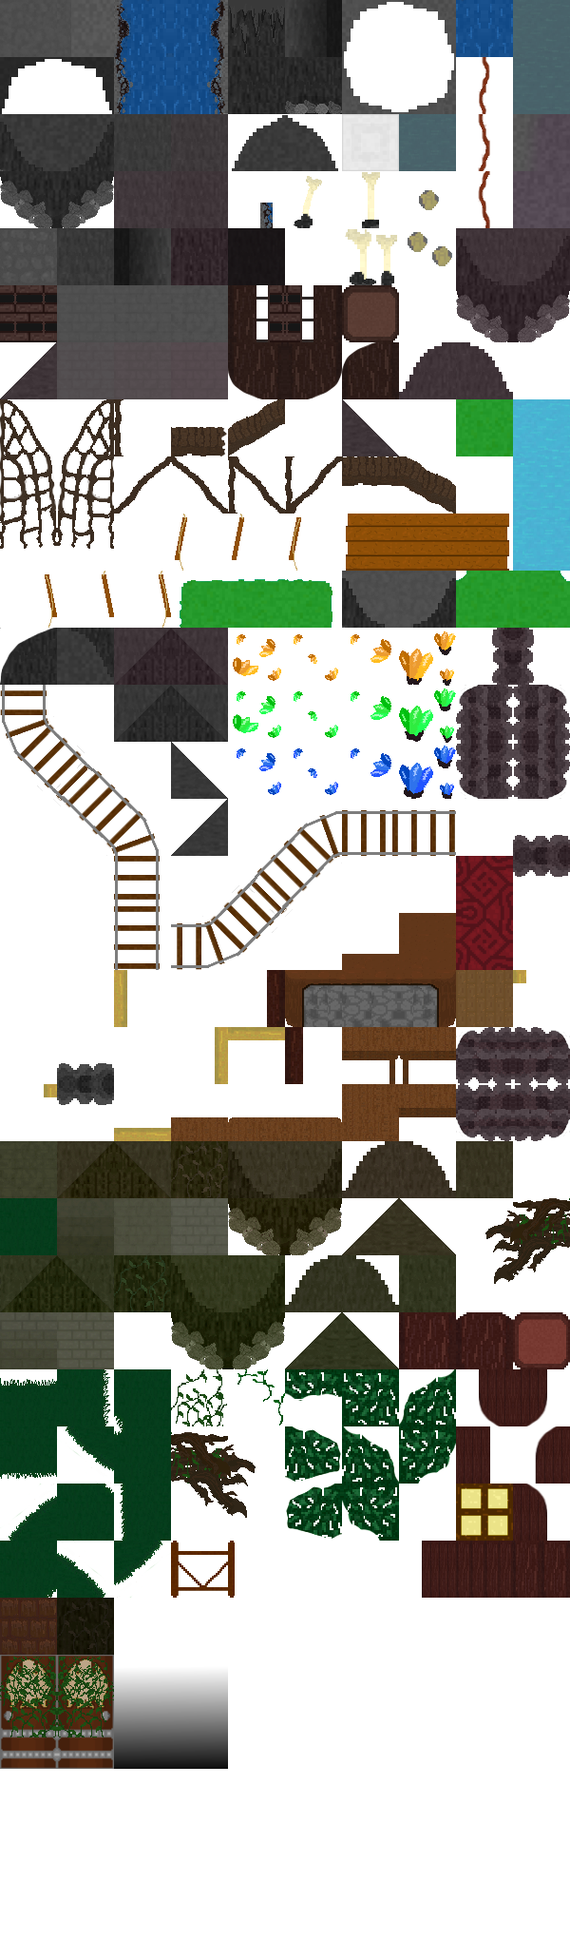
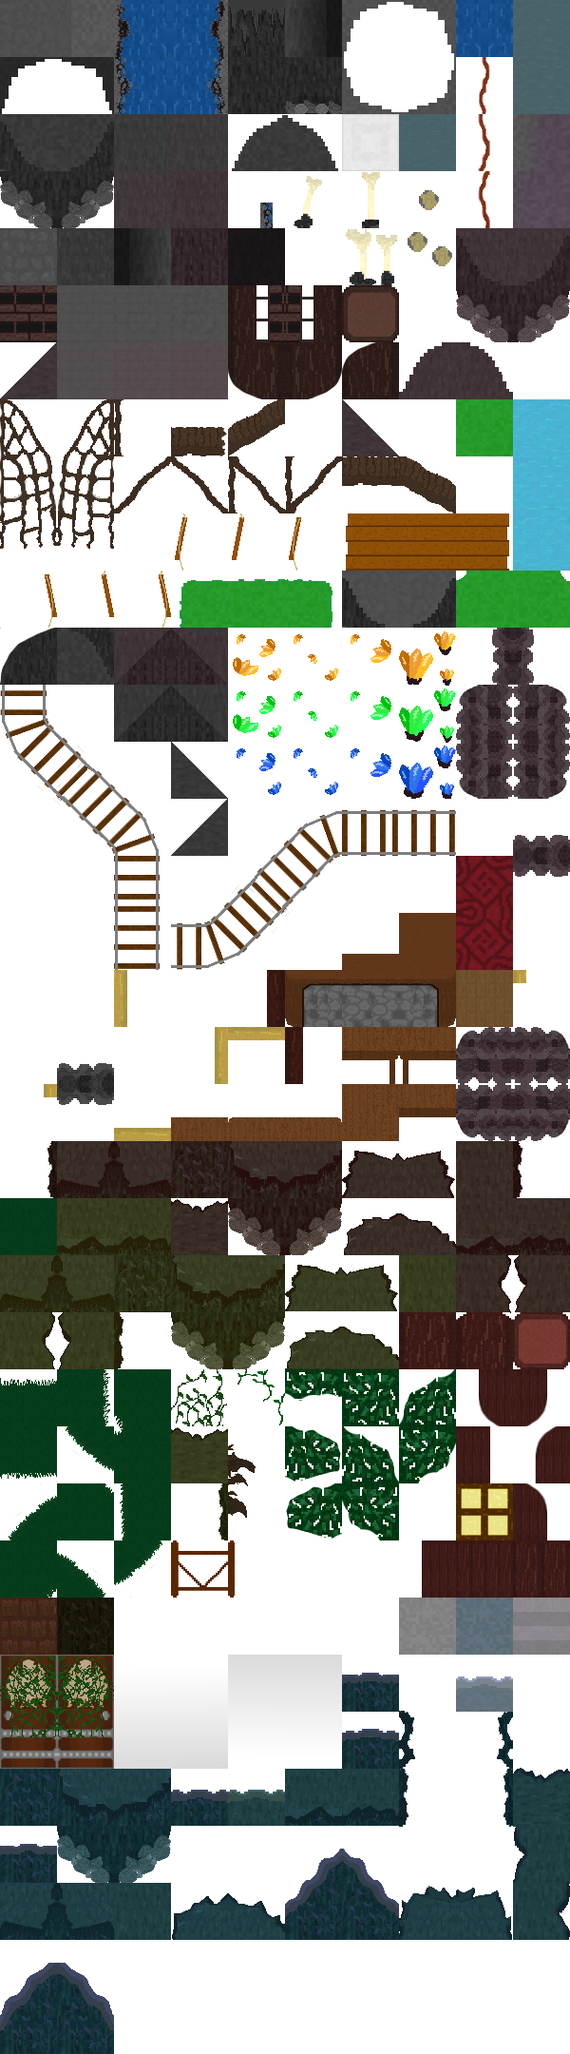
Added frog queen base underwater part!
Added the area, updated caves tilemap and added rocks too.

diff --git a/gamedata/areadata.js b/gamedata/areadata.js
@@ -3669,7 +3669,7 @@ var Areas = {
 				49, 49, 49, 49, 49, 49, 49, 49, 49, 49, 49, 49, 49, 49, 49, 41, 41, 41, 41, 41, 41, 41, 41, 41, 41, 41, 41, 41, 41, 41, 41, 41, 41, 41, 41, 41, 41, 41, 41, 41, 41, 41, 41, 41, 41, 41, 41, 49, 49, 49, 49, 49, 6, 41, 49, 49, 49, 49, 49, 414, 414, 414, 414, 414, 414, 414, 49, 49, 49, 49, 49, 49, 6, 41, 49, 49, 49, 49, 41, 41, 41, 41, 41, 41, 41, 49, 49, 49, 41, 41, 41, 41, 41, 41, 41, 41, 41, 41, 41, 41, 41, 41, 41, 41, 41, 41, 49, 49, 49, 49, 49, 49, 49, 49, 49, 49, 49, 49, 49, 49, 49, 49, 49, 49, 49, 49, 49, 49, 49, 49, 49, 49, 49, 49, 49, 49, 49, 49, 49, 49, 49, 49, 49, 49, 49, 49, 49, 49, 49, 49, 49, 49, 49, 49, 49, 49, 49, 49, 49, 49, 49, 49, 49, 49, 49, 49, 49, 49, 49, 49, 49, 49, 49, 49, 49,
 				49, 49, 49, 49, 49, 49, 49, 49, 49, 49, 49, 49, 49, 49, 49, 49, 41, 41, 41, 41, 41, 41, 41, 41, 41, 41, 41, 41, 41, 41, 41, 41, 41, 41, 41, 41, 41, 41, 41, 41, 41, 41, 41, 41, 41, 41, 41, 49, 49, 49, 49, 49, 6, 41, 49, 49, 49, 49, 49, 414, 414, 414, 414, 414, 414, 414, 49, 49, 49, 49, 49, 49, 6, 41, 49, 49, 49, 49, 41, 41, 41, 41, 41, 41, 41, 41, 41, 41, 41, 41, 41, 41, 41, 41, 41, 41, 41, 41, 41, 41, 41, 41, 41, 41, 41, 41, 49, 49, 49, 49, 49, 49, 49, 49, 49, 49, 49, 49, 49, 49, 49, 49, 49, 49, 49, 49, 49, 49, 49, 49, 49, 49, 49, 49, 49, 49, 49, 49, 49, 49, 49, 49, 49, 49, 49, 49, 49, 49, 49, 49, 49, 49, 49, 49, 49, 49, 49, 49, 49, 49, 49, 49, 49, 49, 49, 49, 49, 49, 49, 49, 49, 49, 49, 49, 49,
 				49, 49, 49, 49, 49, 49, 49, 49, 49, 49, 49, 49, 49, 49, 49, 49, 49, 41, 41, 41, 41, 41, 41, 41, 41, 41, 41, 41, 41, 41, 41, 41, 41, 41, 41, 41, 41, 41, 41, 41, 41, 41, 41, 41, 41, 41, 41, 41, 49, 49, 49, 49, 6, 41, 49, 49, 49, 49, 49, 414, 414, 414, 414, 414, 414, 414, 49, 49, 49, 49, 49, 49, 6, 41, 49, 49, 49, 41, 41, 41, 49, 49, 49, 49, 49, 41, 49, 49, 49, 49, 49, 49, 49, 49, 49, 49, 49, 49, 49, 49, 49, 49, 49, 41, 41, 49, 49, 49, 49, 49, 49, 49, 49, 49, 49, 49, 49, 49, 49, 49, 49, 49, 49, 49, 49, 49, 49, 49, 49, 49, 49, 49, 49, 49, 49, 49, 49, 49, 49, 49, 49, 49, 49, 49, 49, 49, 49, 49, 49, 49, 49, 49, 49, 49, 49, 49, 49, 49, 49, 49, 49, 49, 49, 49, 49, 49, 49, 49, 49, 49, 49, 49, 49, 49, 49],
-	
+
 
 
 
@@ -14381,7 +14381,389 @@ crop: {
 
 	},
 
+	underwaterGrove: {
+		id: 32,
 
+		data: {
+			name: "???",
+			displayOnEnter: true,
+		},
+
+		indoors: true,
+
+		tagGameAllowed: true,
+
+		song_day: "assets/music/Eaglecrest.mp3",
+		song_night: "assets/music/Eaglecrest.mp3",
+
+		checkpoint: false,
+
+		lootArea: "eaglecrest",
+		lootTier: 1,
+
+		mapData: {
+			cols: 58,
+			rows: 66,
+			tsize: 60,
+			tilesPerRow: 10,
+			solidTiles: [1],
+			animateTiles: [
+
+				{
+				// water boundary
+				tiles: [297, 321, 314, 307],
+				animateTime: 180,
+			},
+
+
+			{
+			tiles: [326, 341],
+			animateTime: 360,
+		},
+
+		{
+		tiles: [327, 342],
+		animateTime: 360,
+	},
+
+	{
+	tiles: [336, 351],
+	animateTime: 360,
+	},
+
+	{
+	tiles: [337, 352],
+	animateTime: 360,
+	},
+
+
+
+
+		],
+			layers: [
+				[209,209,209,209,209,209,209,209,209,209,209,209,209,209,209,209,209,206,228,228,223,288,288,223,228,228,228,228,228,228,228,228,228,228,228,228,228,228,228,205,209,209,209,209,209,209,209,209,209,209,209,209,209,209,209,209,209,209,
+209,209,209,209,209,209,209,209,209,209,209,209,209,209,209,209,206,204,228,228,223,288,288,223,223,228,228,228,228,228,228,228,228,228,228,228,228,228,228,204,204,205,209,209,209,209,209,209,209,209,209,209,209,209,209,209,209,209,
+209,209,209,209,209,209,209,209,209,209,209,209,209,209,209,209,204,204,228,228,223,289,289,223,223,223,228,228,228,228,228,228,228,228,228,228,228,228,228,204,204,204,205,209,209,209,209,209,209,209,209,209,209,209,209,209,209,209,
+209,209,209,209,209,209,209,209,209,209,209,209,209,209,209,206,204,204,228,228,223,289,289,289,223,223,223,228,228,228,228,228,223,223,223,223,223,228,228,204,204,204,204,204,205,209,209,209,209,209,209,209,209,209,209,209,209,209,
+209,209,209,209,209,209,209,209,209,209,209,209,209,209,206,204,204,228,228,228,223,289,289,289,289,223,223,223,223,223,223,223,223,223,223,223,223,0,228,228,204,204,204,204,204,205,209,209,209,209,209,209,209,209,209,209,209,209,
+209,209,209,209,209,209,209,209,209,209,209,209,209,206,204,204,228,228,228,228,289,289,289,289,289,289,223,223,223,223,223,223,311,311,311,311,223,223,223,228,228,228,204,204,204,204,205,209,209,209,209,209,209,209,209,209,209,209,
+209,209,209,209,209,209,209,209,209,209,209,209,206,204,204,204,228,228,228,289,223,289,289,289,289,289,289,311,311,311,311,311,289,289,289,289,289,223,223,223,228,228,228,204,204,204,204,204,209,209,209,209,209,209,209,209,209,209,
+209,209,209,209,209,209,209,209,209,209,209,206,204,204,204,228,228,228,223,223,223,289,289,289,289,289,289,289,289,289,289,289,289,289,289,289,289,289,223,223,223,228,228,228,228,204,204,204,209,209,209,209,209,209,209,209,209,209,
+209,209,209,209,209,209,209,209,209,209,206,204,204,204,228,228,228,289,223,223,289,289,289,289,289,289,289,289,289,289,289,289,289,289,289,289,289,289,289,223,223,223,228,228,228,228,204,204,209,209,209,209,209,209,209,209,209,209,
+209,209,209,209,209,209,209,209,209,206,204,204,204,228,228,228,289,223,223,289,289,289,289,289,289,289,289,209,209,209,209,209,209,209,209,289,289,289,289,289,223,223,223,228,228,228,228,209,211,211,211,211,211,211,211,211,211,209,
+209,209,209,209,209,209,209,209,206,204,204,204,228,228,228,289,223,223,289,289,289,289,289,289,204,209,209,209,209,209,209,209,209,209,209,209,209,204,289,289,289,223,223,223,228,228,209,209,209,209,209,209,209,209,209,209,209,209,
+209,209,209,209,209,209,209,209,204,204,204,228,228,228,289,223,223,289,289,289,289,289,289,289,204,209,209,209,209,209,209,209,209,209,209,209,209,209,228,289,289,289,223,223,223,209,209,209,209,209,209,209,209,209,209,209,209,209,
+209,209,209,209,209,209,209,209,204,204,228,228,228,289,223,223,311,289,289,289,289,289,289,289,204,209,209,209,209,209,209,209,209,209,209,209,209,209,204,228,289,289,289,223,223,204,204,204,204,204,204,203,209,209,209,209,209,209,
+209,209,209,209,209,209,209,209,204,228,228,228,225,223,223,311,289,289,289,289,289,289,228,228,209,209,209,209,209,209,209,209,209,209,209,209,209,209,204,228,223,289,289,289,223,204,204,204,204,204,204,204,204,209,209,209,209,209,
+209,209,209,209,209,206,209,209,228,228,228,225,223,223,311,289,289,289,289,289,289,228,228,209,209,209,209,209,209,209,209,209,209,209,209,209,209,209,206,228,223,289,289,289,223,204,204,204,204,204,204,204,204,203,209,209,209,209,
+209,209,209,209,209,209,209,209,209,228,223,223,223,311,289,289,289,289,289,289,228,228,209,209,209,209,209,209,209,209,209,209,209,209,206,204,204,204,204,228,223,289,289,289,223,228,204,204,204,204,204,204,204,204,205,209,209,209,
+209,209,209,209,209,209,204,209,209,209,228,311,311,289,289,289,289,289,289,223,228,209,209,209,209,209,209,209,209,209,209,209,209,204,204,204,204,204,204,333,311,289,289,289,223,224,228,228,228,228,228,228,204,204,204,209,209,209,
+209,209,209,209,209,209,209,209,209,209,311,311,289,289,289,289,289,289,289,223,209,209,209,209,209,209,209,209,209,209,209,209,209,204,204,204,204,311,311,333,311,289,289,289,223,223,224,228,223,228,228,228,204,204,204,209,209,209,
+209,209,209,209,209,209,209,209,209,209,311,289,289,289,289,289,289,289,289,209,209,209,209,209,209,209,209,209,209,209,209,209,209,204,311,311,311,311,333,333,311,289,289,289,311,223,223,223,223,224,228,228,204,228,204,209,209,209,
+209,209,209,209,209,209,209,209,209,209,311,289,289,289,289,289,289,289,289,333,209,209,209,209,209,209,209,209,209,209,209,209,209,228,333,333,333,333,333,333,311,289,289,289,311,311,311,311,311,223,228,228,204,228,209,209,209,209,
+209,209,209,209,209,209,209,209,209,333,311,289,289,289,289,289,289,289,289,204,333,209,209,209,209,209,209,209,209,209,209,228,228,204,333,333,333,333,333,333,331,289,289,289,289,311,311,311,311,311,333,333,228,228,209,209,209,209,
+209,209,209,209,209,209,209,209,333,204,311,289,289,289,289,289,289,289,289,204,204,333,209,209,209,209,209,209,209,209,209,204,204,204,333,333,333,333,333,331,311,289,289,289,289,289,311,311,311,311,333,333,204,204,209,209,209,209,
+209,209,209,209,209,209,209,333,204,204,311,289,289,289,289,289,289,289,289,204,204,204,205,219,209,209,209,209,209,209,209,228,204,311,333,333,333,333,333,311,311,289,289,289,289,289,289,289,311,333,333,333,204,204,209,209,209,209,
+209,209,209,209,209,209,204,204,204,204,311,289,289,289,289,289,289,289,289,333,204,204,204,204,205,209,209,209,209,209,209,209,228,333,333,333,333,311,311,311,289,289,289,289,289,289,289,289,311,333,333,204,228,204,209,209,209,209,
+209,209,209,209,209,209,204,204,204,333,311,289,289,289,289,289,289,289,289,311,333,204,204,204,204,205,209,209,209,209,209,209,228,228,333,333,333,311,311,289,289,289,289,289,289,289,289,289,311,333,333,333,204,204,209,209,209,209,
+209,209,209,209,209,209,204,204,333,333,311,289,289,289,289,289,289,289,289,311,333,333,204,204,204,204,204,209,209,209,209,228,228,228,228,333,333,311,289,289,289,289,289,289,289,289,289,289,311,333,333,333,204,204,209,209,209,209,
+209,209,209,209,209,209,204,333,333,333,333,289,289,289,289,289,289,289,289,311,333,333,333,311,204,204,205,219,209,209,209,209,209,209,209,209,333,311,289,289,289,289,289,289,289,289,289,289,222,333,333,333,204,204,209,209,209,209,
+209,209,209,209,209,209,209,333,333,333,333,311,289,289,289,289,289,289,289,311,311,333,333,333,333,204,204,204,205,219,219,219,220,219,220,206,333,311,289,289,289,289,289,289,289,289,289,289,311,311,333,333,333,204,209,209,209,209,
+209,209,209,209,209,209,209,209,209,333,333,333,289,289,289,289,289,289,289,311,311,311,333,333,333,333,204,204,204,204,204,204,204,204,204,204,333,333,289,289,289,289,289,289,289,289,289,289,311,311,333,333,333,209,209,209,209,209,
+209,209,209,209,209,209,209,209,209,209,209,333,333,289,289,289,289,289,289,289,311,311,333,333,333,333,311,311,204,204,204,204,204,204,204,204,333,333,311,289,289,289,289,289,289,289,289,289,311,311,333,333,204,209,209,209,209,209,
+209,209,209,209,209,209,209,209,209,209,209,209,209,289,289,289,289,289,289,289,311,311,333,333,333,333,333,311,311,311,311,311,311,311,311,311,333,333,311,289,289,289,289,289,289,289,289,289,289,311,333,333,204,209,209,209,209,209,
+209,209,209,209,209,209,209,209,209,209,209,209,209,289,289,289,289,289,289,289,289,311,312,316,333,333,333,333,333,311,311,311,311,311,311,333,333,333,313,289,289,289,289,289,289,289,289,289,289,311,333,333,204,209,209,209,209,209,
+209,209,209,209,209,209,209,209,209,209,209,209,209,209,289,289,289,289,289,289,289,311,311,311,311,311,311,224,333,333,333,333,333,333,333,333,333,313,311,289,289,289,289,289,289,289,289,289,289,311,333,333,204,209,209,209,209,209,
+209,209,209,209,209,209,209,209,209,209,209,209,209,209,289,289,289,289,289,289,289,332,333,311,311,311,311,311,316,316,316,316,316,316,316,316,313,311,311,289,289,289,289,289,289,289,289,289,289,311,333,333,204,209,209,209,209,209,
+209,209,209,209,209,209,209,209,209,209,209,209,209,209,289,289,289,289,289,289,289,311,311,333,333,311,311,311,311,311,311,311,311,311,311,311,311,311,311,289,289,289,289,289,289,289,289,289,289,333,333,333,209,209,209,209,209,209,
+209,209,209,209,209,209,209,209,209,209,209,209,209,209,289,289,289,289,289,289,289,289,311,311,311,333,333,311,311,311,311,311,311,311,311,311,311,311,289,289,289,289,289,289,289,289,289,289,311,333,333,209,209,209,209,209,209,209,
+209,209,209,209,209,209,209,209,209,209,209,209,209,209,209,289,289,289,289,289,289,289,289,289,289,311,311,311,311,311,311,311,311,311,311,311,311,289,289,289,289,289,289,289,289,289,289,289,333,333,204,209,209,209,209,209,209,209,
+209,209,209,209,209,209,209,209,209,209,209,209,209,209,209,209,289,289,289,289,289,289,289,289,289,311,311,289,289,311,311,311,311,311,311,311,289,289,289,289,289,289,289,289,289,289,289,333,333,333,204,209,209,209,209,209,209,209,
+209,209,209,209,209,209,209,209,209,209,209,209,209,209,209,209,209,289,289,289,289,289,289,289,289,289,289,289,289,289,0,0,0,0,0,289,289,289,289,289,289,289,289,289,289,289,333,333,333,333,209,209,209,209,209,209,209,209,
+209,209,209,209,209,209,209,209,209,209,209,209,209,209,209,209,209,209,209,209,209,289,289,289,289,289,289,289,289,289,0,0,0,0,0,289,289,289,289,289,289,289,289,289,289,333,333,333,333,209,209,209,209,209,209,209,209,209,
+209,209,209,209,209,209,209,209,209,209,209,209,209,209,209,209,209,209,209,209,209,202,289,289,289,289,289,289,289,289,0,0,0,0,0,289,289,289,289,333,333,333,333,333,333,333,333,333,209,209,209,209,209,209,209,209,209,209,
+209,209,209,209,209,209,209,209,209,209,209,209,209,209,209,209,209,209,209,209,204,204,289,289,289,289,289,289,289,289,289,289,289,289,289,289,289,333,333,333,333,333,333,333,333,333,333,209,209,209,209,209,209,209,209,209,209,209,
+209,209,209,209,209,209,209,209,209,209,209,209,209,209,209,209,209,209,209,209,204,204,289,289,289,289,289,289,289,289,289,289,289,289,289,289,333,333,333,333,209,209,209,209,209,209,209,209,209,209,209,209,209,209,209,209,209,209,
+209,209,209,209,209,209,209,209,209,209,209,209,209,209,209,209,209,209,209,209,204,204,289,289,289,289,289,289,289,289,289,289,289,289,289,333,333,209,209,209,209,209,209,209,209,209,209,209,209,209,209,209,209,209,209,209,209,209,
+209,209,209,209,209,209,209,209,209,209,209,209,209,209,209,209,209,209,209,209,204,311,289,289,289,289,289,289,289,289,289,289,289,289,311,333,333,209,209,209,209,209,209,209,209,209,209,209,209,209,209,209,209,209,209,209,209,209,
+209,209,209,209,209,209,209,209,209,209,209,209,209,209,209,209,209,209,209,209,209,333,289,289,289,289,289,289,289,289,289,289,289,289,311,333,333,205,209,209,209,209,209,209,209,209,209,209,209,209,209,209,209,209,209,209,209,209,
+209,209,209,209,209,209,209,209,209,209,209,209,209,209,209,204,204,204,204,204,204,333,333,289,289,289,289,289,289,289,289,289,289,289,311,333,333,228,204,204,204,204,204,205,209,209,209,209,209,209,209,209,209,209,209,209,209,209,
+209,209,209,209,209,209,209,209,209,209,209,209,209,204,204,204,204,204,204,204,204,333,333,311,289,289,289,289,289,289,289,289,289,289,311,333,333,204,204,204,204,204,204,204,204,205,209,209,209,209,209,209,209,209,209,209,209,209,
+209,209,209,209,209,209,209,209,209,209,204,204,204,204,204,204,204,204,204,204,204,333,333,311,289,289,289,289,289,289,289,289,289,289,311,333,333,204,204,204,204,204,204,204,204,204,204,204,203,209,209,209,209,209,209,209,209,209,
+209,209,209,209,209,209,209,209,209,204,204,204,204,204,311,311,311,311,311,311,333,333,333,311,289,289,289,289,289,289,289,289,289,289,311,333,333,333,311,311,311,311,311,311,204,204,204,204,204,203,209,209,209,209,209,209,209,209,
+209,209,209,209,209,209,209,204,204,204,204,204,311,311,333,333,333,333,333,333,333,333,333,311,289,289,289,289,289,289,289,289,289,289,311,333,333,333,333,333,333,333,333,333,311,311,204,204,204,204,204,204,203,209,209,209,209,209,
+209,209,209,209,209,204,204,204,204,311,311,311,333,333,333,333,333,333,333,333,333,333,333,221,289,289,289,289,289,289,289,289,289,289,222,333,333,333,333,333,333,333,333,333,333,333,311,311,311,204,204,204,204,203,209,209,209,209,
+209,209,209,209,204,204,204,204,311,333,333,333,333,333,333,316,316,316,316,316,316,316,225,311,289,289,289,289,289,289,289,289,289,289,311,224,316,316,333,333,333,316,316,333,333,333,333,333,333,311,204,204,204,204,203,209,209,209,
+209,204,209,204,204,204,311,311,333,333,333,333,333,316,206,311,311,311,311,311,311,311,311,311,289,289,289,289,289,289,289,289,289,332,311,311,311,311,311,311,311,311,311,224,316,333,333,333,333,333,311,311,204,204,204,204,204,203,
+209,204,204,204,204,311,333,333,333,333,316,316,206,311,311,311,311,311,311,311,311,311,311,311,289,289,289,289,289,289,289,289,289,289,311,311,311,311,311,311,311,311,311,311,311,224,316,316,333,333,333,333,311,311,204,204,204,204,
+209,204,204,311,333,333,333,333,333,206,311,311,311,311,311,311,311,311,311,311,311,311,311,289,289,289,289,289,289,289,289,289,289,289,289,312,311,311,311,311,311,311,311,311,311,311,311,311,224,333,333,333,333,333,311,204,204,204,
+209,204,311,333,333,333,333,316,206,311,311,311,311,311,311,311,311,311,311,311,311,311,289,289,289,289,289,289,289,289,289,289,289,289,289,289,332,311,311,311,311,311,332,333,311,311,311,311,311,224,316,333,333,333,333,311,204,204,
+228,204,333,333,333,316,206,311,311,311,311,311,311,311,289,289,0,0,0,0,0,0,289,289,289,289,289,289,289,289,289,289,289,289,289,289,289,289,289,289,289,289,311,311,333,333,311,311,311,311,311,224,316,333,333,333,204,228,
+228,204,333,333,311,311,311,311,311,311,311,311,289,289,289,289,0,0,0,0,0,0,289,289,289,289,289,289,289,289,289,289,289,289,289,289,289,289,289,289,289,289,289,311,311,311,333,333,311,311,311,311,311,311,333,333,204,228,
+228,204,333,333,311,311,311,311,311,289,289,289,289,289,289,289,0,0,0,0,0,0,289,289,289,289,289,289,289,289,289,289,289,289,289,289,289,289,289,289,289,289,289,289,289,289,311,311,311,311,311,311,311,311,333,333,204,228,
+228,204,333,333,311,311,311,311,289,289,289,289,289,289,289,289,289,289,289,289,289,289,289,289,289,289,289,289,289,289,289,289,289,289,289,289,289,289,289,289,289,289,289,289,289,289,311,311,289,289,311,311,311,311,333,333,204,228,
+228,204,333,333,311,311,289,289,289,289,289,289,289,289,289,289,289,289,289,289,289,289,289,289,289,289,289,289,289,289,289,289,289,289,289,289,289,289,289,289,289,289,289,289,289,289,289,289,289,289,289,289,311,311,333,333,204,228,
+228,204,333,333,311,289,289,289,289,289,289,289,289,289,289,289,289,289,289,289,289,289,289,289,289,289,289,289,289,289,289,289,289,289,289,289,289,289,289,289,289,289,289,289,289,289,289,289,289,289,289,289,289,311,333,333,204,228,
+209,209,333,333,333,289,289,289,289,289,289,289,289,289,289,289,289,289,289,289,289,289,289,289,289,289,289,289,289,289,289,289,289,289,289,289,289,289,289,289,289,289,289,289,289,289,289,289,289,289,289,289,289,333,333,333,209,209,
+209,209,209,333,333,333,289,289,289,289,289,289,289,289,289,289,289,289,289,289,289,289,289,289,289,289,289,289,289,289,289,289,289,289,289,289,289,289,289,289,289,289,289,289,289,289,289,289,289,289,289,289,333,333,333,209,209,209,
+209,209,209,209,333,333,333,289,289,289,289,289,289,289,289,289,289,289,289,289,289,289,289,289,289,289,289,289,289,289,289,289,289,289,289,289,289,289,289,289,289,289,289,289,289,289,289,289,289,289,289,333,333,333,209,209,209,209
+
+
+
+
+	],
+
+	[0,0,0,0,0,0,0,0,0,0,0,0,0,0,0,0,0,0,0,0,231,0,201,224,0,0,0,0,0,0,0,0,0,0,0,0,0,0,0,0,0,0,0,0,0,0,0,0,0,0,0,0,0,0,0,0,0,0,
+0,0,0,0,0,0,0,0,0,0,0,0,0,0,0,0,0,0,0,0,231,299,299,327,224,0,0,0,0,0,0,0,0,0,0,0,0,0,0,0,0,0,0,0,0,0,0,0,0,0,0,0,0,0,0,0,0,0,
+0,0,0,0,0,0,0,0,0,0,0,0,0,0,0,0,0,0,0,0,231,294,294,337,327,224,0,0,0,0,0,0,0,212,212,213,0,0,0,0,0,0,0,220,0,0,0,0,0,0,0,0,0,0,0,0,0,0,
+0,0,0,0,0,0,0,0,0,0,0,0,0,0,0,0,0,0,0,0,231,304,304,304,337,327,224,213,212,212,213,213,225,0,0,0,222,0,0,0,0,0,0,0,0,0,0,0,0,0,0,0,0,0,0,0,0,0,
+0,0,0,0,0,0,0,0,0,0,0,0,0,0,0,0,0,216,0,0,231,295,295,295,295,337,327,0,0,0,0,0,326,314,314,314,327,222,0,215,0,0,0,0,0,0,0,0,0,0,0,0,0,0,0,0,0,0,
+0,0,0,0,0,0,0,0,0,0,0,0,0,0,0,0,216,0,0,0,225,305,305,305,305,322,337,314,314,314,314,314,336,0,0,0,337,327,222,0,0,215,0,0,0,0,0,0,0,0,0,0,0,0,0,0,0,0,
+0,0,0,0,0,0,0,0,0,0,0,0,0,0,0,0,0,0,0,225,326,318,0,0,0,0,322,0,0,0,0,0,323,0,0,0,322,337,327,224,0,0,215,0,0,0,201,230,0,0,0,0,0,0,0,0,0,0,
+0,0,0,0,0,0,0,0,0,0,0,0,0,0,0,216,0,0,225,326,336,318,0,0,0,0,0,0,0,0,0,0,0,0,0,0,0,322,337,327,224,0,0,0,215,0,201,230,0,0,0,0,0,0,0,0,0,0,
+0,0,0,0,0,0,0,0,0,0,0,0,0,0,216,0,0,225,326,336,323,0,0,0,0,0,0,217,214,214,214,214,214,214,218,0,0,0,322,337,327,224,0,0,0,215,201,230,0,0,0,0,0,0,0,0,0,0,
+0,0,0,0,0,0,0,0,0,0,0,0,0,216,0,0,313,326,336,323,0,0,0,0,217,214,214,0,0,0,0,0,0,0,0,214,214,218,0,322,337,327,224,0,0,0,201,0,209,209,209,209,209,209,209,209,209,0,
+0,0,0,0,0,0,0,0,0,0,0,0,216,0,0,313,326,336,323,0,0,0,0,201,230,0,0,0,0,0,0,0,0,0,0,0,0,229,237,0,322,337,327,222,0,207,0,0,0,0,0,0,0,0,0,0,0,0,
+0,0,0,0,0,0,0,0,0,0,0,216,0,0,313,326,336,323,0,0,0,0,0,201,230,0,0,0,0,0,0,0,0,0,0,0,0,0,210,237,0,322,337,327,232,205,220,220,219,220,219,0,0,0,0,0,0,0,
+0,0,0,0,0,0,0,0,0,0,216,0,0,313,326,336,0,0,0,0,0,0,236,264,230,0,0,0,0,0,0,0,0,0,0,0,0,0,229,210,237,0,322,337,232,0,0,0,0,0,0,0,0,0,0,0,0,0,
+0,0,0,0,0,0,0,0,0,216,0,0,313,326,336,0,323,0,0,0,0,236,0,217,0,0,0,0,0,0,0,0,0,0,0,0,0,0,229,210,231,0,0,322,232,0,0,0,0,0,0,0,230,209,209,209,0,0,
+0,0,0,0,0,209,0,0,216,0,0,313,326,336,0,323,0,0,0,0,236,0,217,0,0,0,0,0,0,0,0,0,0,0,0,219,220,219,0,0,231,0,0,0,232,0,0,0,0,0,0,0,230,209,209,209,0,0,
+0,0,0,0,0,209,209,209,0,0,231,326,336,0,323,0,0,0,0,236,0,207,0,0,0,0,0,0,0,0,0,0,0,0,0,0,0,0,0,315,231,0,0,0,222,215,0,0,0,0,0,0,230,209,209,209,0,0,
+0,0,0,0,0,209,209,0,0,0,315,336,0,323,0,0,0,0,264,232,207,0,0,0,0,0,0,0,0,0,0,209,0,229,0,0,0,326,314,0,340,318,0,319,327,0,0,0,0,0,0,215,230,209,209,209,0,0,
+0,0,0,0,0,209,209,0,0,0,340,318,323,0,0,0,0,0,264,232,0,0,0,0,0,0,0,0,0,0,0,209,0,229,326,314,314,336,0,0,340,318,0,319,337,327,0,212,212,0,0,0,230,209,209,209,0,0,
+0,0,0,0,0,209,0,0,0,0,340,318,0,0,0,0,0,0,264,0,0,0,0,0,0,0,0,0,0,0,0,209,0,229,336,0,0,0,323,0,340,318,0,319,0,337,314,314,327,232,0,0,230,209,209,209,0,0,
+0,0,0,0,209,209,0,0,0,0,340,318,0,0,0,0,0,0,0,205,0,0,0,0,0,0,0,0,0,0,0,209,0,202,323,0,0,0,0,0,340,318,0,319,0,0,0,0,337,232,315,315,230,209,209,209,0,0,
+0,0,0,0,209,209,0,0,0,0,340,318,0,0,0,0,0,0,0,0,205,0,0,0,0,0,0,0,0,0,0,209,202,326,0,0,0,0,0,0,0,318,0,0,322,0,0,0,0,330,0,207,205,209,209,0,0,0,
+0,0,0,209,209,0,0,0,0,0,340,318,0,0,0,0,0,0,0,327,0,205,0,0,0,0,0,0,0,0,0,229,326,336,0,0,0,0,0,0,0,318,0,0,0,234,0,0,0,330,0,230,0,230,209,0,0,0,
+0,0,0,209,0,0,0,0,0,326,340,318,0,0,0,0,0,0,319,337,327,0,0,0,0,0,0,0,0,0,0,209,336,0,0,0,0,0,313,308,0,318,0,0,0,0,0,319,322,0,0,205,208,230,209,0,0,0,
+0,0,0,0,0,0,229,0,326,336,340,318,0,0,0,0,0,0,319,322,337,327,0,0,0,0,0,0,0,0,0,209,209,323,0,0,0,340,0,308,323,0,0,0,0,0,0,319,330,0,0,0,205,230,0,0,0,0,
+0,0,0,0,0,0,229,326,336,323,340,318,0,0,0,0,0,0,319,330,322,337,327,0,0,0,0,0,0,0,0,209,209,209,218,0,0,340,0,323,0,0,0,0,0,0,0,319,330,0,0,215,0,230,0,0,0,0,
+0,0,0,0,0,0,229,336,323,0,340,318,0,0,0,0,0,0,319,330,0,322,337,314,327,0,230,0,0,0,0,209,209,209,209,208,0,340,323,0,0,0,0,0,0,0,0,319,330,0,0,0,0,230,0,0,0,0,
+0,0,0,0,0,0,229,323,0,0,0,318,0,0,0,0,0,0,0,332,333,0,322,0,337,327,0,0,0,0,0,0,0,0,0,0,0,340,308,0,0,0,0,0,0,0,0,334,312,0,0,0,0,230,0,0,0,0,
+0,0,0,0,0,0,0,214,208,0,0,340,318,0,0,0,0,0,309,0,312,0,0,0,322,337,327,0,0,0,0,0,0,0,0,0,0,340,0,0,0,0,0,0,0,0,0,330,0,330,0,0,215,230,0,0,0,0,
+0,0,0,0,0,0,0,0,0,214,208,0,318,0,0,0,0,0,0,0,0,330,0,0,0,322,337,314,327,0,0,0,0,0,0,326,0,0,318,0,0,0,0,0,0,0,319,332,320,330,0,0,207,0,0,0,0,0,
+0,0,0,0,0,0,0,0,0,0,0,214,214,218,0,0,0,0,0,322,0,330,0,0,0,0,0,0,337,314,314,314,314,314,314,336,0,0,340,318,0,0,0,0,0,0,0,322,312,330,0,201,230,0,0,0,0,0,
+0,0,0,0,0,0,0,0,0,0,0,0,0,229,0,0,0,0,0,0,0,332,333,0,0,0,322,0,0,0,0,0,0,0,0,0,0,0,340,318,0,0,0,0,0,0,0,0,322,330,0,201,230,0,0,0,0,0,
+0,0,0,0,0,0,0,0,0,0,0,0,0,229,0,0,0,0,0,0,322,0,0,0,317,317,317,0,322,0,0,0,0,0,0,323,0,0,0,0,0,0,0,0,0,0,0,0,0,330,0,201,230,0,0,0,0,0,
+0,0,0,0,0,0,0,0,0,0,0,0,0,0,218,0,0,0,0,0,319,334,339,0,0,0,0,332,0,0,0,0,0,0,0,0,0,0,0,318,0,0,0,0,0,0,0,0,0,330,0,201,230,0,0,0,0,0,
+0,0,0,0,0,0,0,0,0,0,0,0,0,0,229,0,0,0,0,0,319,0,0,320,335,0,0,0,0,317,317,0,317,0,317,317,0,0,0,318,0,0,0,0,0,0,0,0,0,330,0,201,230,0,0,0,0,0,
+0,0,0,0,0,0,0,0,0,0,0,0,0,0,229,0,0,0,0,0,319,0,332,317,0,320,320,335,0,311,311,311,311,311,311,0,0,308,0,318,0,0,0,0,0,0,0,0,319,0,0,201,0,0,0,0,0,0,
+0,0,0,0,0,0,0,0,0,0,0,0,0,0,229,0,0,0,0,0,0,322,0,0,332,0,0,331,0,311,311,311,311,311,311,0,0,308,323,0,0,0,0,0,0,0,0,319,330,0,217,0,0,0,0,0,0,0,
+0,0,0,0,0,0,0,0,0,0,0,0,0,0,0,208,0,0,0,0,0,0,322,311,311,332,313,0,0,311,333,311,333,311,311,0,0,323,0,0,0,0,0,0,0,0,0,319,0,201,230,0,0,0,0,0,0,0,
+0,0,0,0,0,0,0,0,0,0,0,0,0,0,0,0,0,0,0,0,0,0,0,0,322,0,0,323,322,333,333,333,333,333,289,0,323,0,0,0,0,0,0,0,0,0,334,0,0,201,230,0,0,0,0,0,0,0,
+0,0,0,0,0,0,0,0,0,0,0,0,0,0,0,0,0,214,214,214,218,0,0,0,0,322,323,0,0,311,311,311,289,289,311,323,0,0,0,0,0,0,0,0,0,334,0,0,0,217,0,0,0,0,0,0,0,0,
+0,0,0,0,0,0,0,0,0,0,0,0,0,0,0,0,0,0,0,0,0,208,0,0,0,0,0,0,0,289,311,311,311,311,289,0,0,0,0,334,320,320,320,320,320,0,0,0,217,0,0,0,0,0,0,0,0,0,
+0,0,0,0,0,0,0,0,0,0,0,0,0,0,0,0,0,0,0,0,0,0,0,0,0,0,0,0,0,289,289,289,289,289,289,0,0,334,320,0,0,0,0,0,0,0,0,217,0,0,0,0,0,0,0,0,0,0,
+0,0,0,0,0,0,0,0,0,0,0,0,0,0,0,0,0,0,0,0,229,0,0,0,0,0,0,0,0,0,0,0,0,0,0,0,334,0,0,0,207,214,214,214,214,214,214,0,0,0,0,0,0,0,0,0,0,0,
+0,0,0,0,0,0,0,0,0,0,0,0,0,0,0,0,0,0,0,0,229,326,0,0,0,0,0,0,0,0,0,0,0,0,0,334,0,207,214,214,0,0,0,0,0,0,0,0,0,0,0,0,0,0,0,0,0,0,
+0,0,0,0,0,0,0,0,0,0,0,0,0,0,0,0,0,0,0,0,229,336,318,0,0,0,0,0,0,0,0,0,0,0,334,0,0,0,0,0,0,0,0,0,0,0,0,0,0,0,0,0,0,0,0,0,0,0,
+0,0,0,0,0,0,0,0,0,0,0,0,0,0,0,0,0,0,0,0,229,335,318,0,0,0,0,0,0,0,0,0,0,319,330,0,0,0,0,0,0,0,0,0,0,0,0,0,0,0,0,0,0,0,0,0,0,0,
+0,0,0,0,0,0,0,0,0,0,0,0,0,0,0,220,219,219,220,220,206,0,318,0,0,0,0,0,0,0,0,0,0,319,330,0,0,205,219,220,220,220,220,0,0,0,0,0,0,0,0,0,0,0,0,0,0,0,
+0,0,0,0,0,0,0,0,0,0,0,0,0,220,202,204,0,0,0,0,0,0,0,335,0,0,0,0,0,0,0,0,0,319,330,0,0,204,0,0,0,0,0,0,220,0,0,0,0,0,0,0,0,0,0,0,0,0,
+0,0,0,0,0,0,0,0,0,0,220,219,206,0,0,0,0,0,0,0,326,0,0,340,318,0,0,0,0,0,0,0,0,319,330,0,0,327,0,0,0,0,0,0,0,0,220,219,0,0,0,0,0,0,0,0,0,0,
+0,0,0,0,0,0,0,0,0,202,0,0,0,326,314,314,314,314,314,314,336,0,0,340,318,0,0,0,0,0,0,0,0,319,330,0,0,337,314,314,314,314,314,314,327,0,0,0,0,0,0,0,0,0,0,0,0,0,
+0,0,0,0,0,0,0,219,202,0,0,326,314,336,0,0,0,0,0,0,323,0,0,340,318,0,0,0,0,0,0,0,0,319,330,0,0,322,0,0,0,0,0,0,337,314,327,0,0,0,219,220,0,0,0,0,0,0,
+0,0,0,0,0,219,206,0,326,314,314,336,0,0,323,0,0,0,0,0,0,0,0,340,318,0,0,0,0,0,0,0,0,319,330,0,0,0,0,0,0,0,0,322,0,0,337,314,314,327,0,0,0,0,0,0,0,0,
+0,0,0,0,202,0,0,326,336,0,0,0,323,0,0,0,0,0,0,0,0,0,0,331,318,0,0,0,0,0,0,0,0,319,312,0,0,0,0,0,0,0,0,0,0,322,0,0,0,337,327,0,0,0,0,0,0,0,
+209,209,219,202,0,326,314,336,0,323,0,0,0,0,0,0,0,317,0,317,0,317,313,318,318,0,0,0,0,0,0,0,0,334,0,332,0,0,0,0,0,0,317,0,0,0,0,0,322,0,337,314,327,0,0,0,209,209,
+209,229,204,0,326,336,0,0,323,0,0,0,0,0,331,308,311,311,311,311,311,311,0,318,305,0,0,0,0,0,0,0,0,0,335,0,0,309,332,317,331,0,309,332,0,0,0,0,0,322,0,0,337,314,327,201,0,209,
+209,229,326,314,336,0,323,0,0,0,0,317,313,308,0,308,311,311,311,311,311,311,0,318,318,0,0,0,0,0,0,0,0,322,332,335,0,309,0,0,319,0,309,0,309,312,0,317,0,0,0,322,0,0,337,327,0,209,
+209,229,336,0,323,0,0,0,0,331,308,0,0,308,0,308,311,333,311,333,311,311,0,323,0,0,0,0,0,0,0,0,0,0,322,0,320,339,0,0,319,0,334,339,0,0,0,0,332,0,0,0,0,322,0,337,0,209,
+209,229,0,323,0,0,0,0,313,0,308,0,0,308,0,308,333,333,333,333,333,289,323,0,0,0,0,0,0,0,0,0,0,0,0,322,0,313,318,0,319,0,0,0,320,335,0,0,0,312,0,0,0,0,322,201,0,209,
+209,229,0,0,0,317,331,308,0,0,308,0,0,308,323,0,311,311,311,289,289,311,0,0,0,0,0,0,0,0,0,0,0,0,0,0,0,323,0,0,0,0,0,332,317,0,335,334,339,0,0,332,317,0,0,201,0,209,
+209,229,0,0,340,0,0,308,0,0,308,0,323,0,0,0,289,311,311,311,311,289,0,0,0,0,0,0,0,0,0,0,0,0,0,0,0,0,0,0,0,0,322,0,0,332,0,0,331,0,0,0,0,330,0,201,0,209,
+209,229,0,0,340,0,0,308,0,323,0,0,0,0,0,0,289,289,289,289,289,289,0,0,0,0,0,0,0,0,0,0,0,0,0,0,0,0,0,0,0,0,0,322,311,311,332,313,0,0,0,0,0,330,0,201,0,209,
+209,229,0,0,340,0,0,308,323,0,0,0,0,0,0,0,0,0,0,0,0,0,0,0,0,0,0,0,0,0,0,0,0,0,0,0,0,0,0,0,0,0,0,0,0,322,0,0,323,234,0,0,0,330,0,201,0,209,
+209,229,0,0,340,0,323,0,0,0,0,0,0,0,0,0,0,0,0,0,0,0,0,0,0,0,0,0,0,0,0,0,0,0,0,0,0,0,0,0,0,0,0,0,0,0,322,323,0,0,0,234,0,330,0,201,0,209,
+209,229,0,0,340,318,0,0,0,0,0,0,0,0,0,0,0,0,0,0,0,0,0,0,0,0,0,0,0,0,0,0,0,0,0,0,0,0,0,0,0,0,0,0,0,0,0,0,0,0,0,0,319,330,0,201,0,209,
+0,0,210,0,0,303,304,303,304,303,304,303,304,303,304,303,304,303,304,303,304,303,304,303,304,303,304,303,304,303,304,303,304,303,304,303,304,303,304,303,304,303,303,304,303,304,303,304,303,304,303,304,303,0,0,201,0,0,
+0,0,0,0,0,0,296,295,296,295,296,295,296,295,296,295,296,295,296,295,296,295,296,295,296,295,296,295,296,295,296,295,296,295,296,295,296,295,296,295,296,295,296,295,296,295,296,295,296,295,295,296,0,0,0,0,0,0,
+0,0,0,0,0,0,0,305,306,305,306,305,306,305,306,305,306,305,306,305,306,305,306,305,306,305,306,305,306,305,306,305,306,305,306,305,306,305,306,305,306,305,306,305,306,305,306,305,306,305,305,306,0,0,0,0,0,0
+
+
+
+	],
+
+	[0,0,0,0,0,0,0,0,0,0,0,0,0,0,0,0,0,0,210,0,0,233,0,0,0,0,0,0,0,0,0,0,0,0,0,0,0,0,0,0,0,0,0,0,0,0,0,0,0,0,0,0,0,0,0,0,0,0,
+0,0,0,0,0,0,0,0,0,0,0,0,0,0,0,0,0,0,210,0,0,233,201,0,0,0,0,0,0,0,0,0,0,0,0,0,0,0,0,0,0,0,0,0,0,0,0,0,0,0,0,0,0,0,0,0,0,0,
+0,0,0,0,0,0,0,0,0,0,0,0,0,0,0,0,0,0,210,0,0,233,0,0,0,0,0,0,0,0,0,0,0,0,0,0,0,0,0,0,0,0,0,0,0,0,0,0,0,0,0,0,0,0,0,0,0,0,
+0,0,0,0,0,0,0,0,0,0,0,0,0,0,0,0,210,0,210,0,0,233,0,322,0,0,0,0,0,0,0,0,0,0,0,0,0,0,0,0,0,0,0,0,0,0,0,0,0,0,0,0,0,0,0,0,0,0,
+0,0,0,0,0,0,0,0,0,0,0,0,0,0,0,0,210,0,0,0,0,233,0,0,322,0,0,0,0,0,0,0,0,0,0,0,0,0,0,0,0,0,0,0,0,0,0,0,0,0,0,0,0,0,0,0,0,0,
+0,0,0,0,0,0,0,0,0,0,0,0,0,0,0,0,210,0,0,0,0,233,0,0,0,0,0,0,0,0,0,0,0,308,0,0,308,0,0,0,0,0,0,0,0,0,0,0,0,0,0,0,0,0,0,0,0,0,
+0,0,0,0,0,0,0,0,0,0,0,0,0,0,0,0,210,0,0,0,0,0,0,0,0,0,0,0,0,0,0,0,308,0,0,0,0,308,0,0,0,0,0,0,0,0,0,0,0,0,0,0,0,0,0,0,0,0,
+0,0,0,0,0,0,0,0,0,0,0,0,0,0,0,0,0,0,0,0,309,0,0,0,0,0,0,0,0,0,0,0,0,0,0,0,0,0,308,0,0,0,0,0,0,0,0,0,0,0,0,0,0,0,0,0,0,0,
+0,0,0,0,0,0,0,0,0,0,0,0,0,0,0,0,0,0,0,309,0,0,0,0,0,0,0,0,0,0,0,0,0,0,0,0,0,0,0,308,0,0,0,0,0,0,0,0,0,0,0,0,0,0,0,0,0,0,
+0,0,0,0,0,0,0,0,0,0,0,0,0,0,0,0,225,0,309,0,0,0,0,0,0,0,0,0,0,0,0,0,0,0,0,0,0,0,0,0,308,0,0,0,0,0,217,0,0,0,0,0,0,0,0,0,0,0,
+0,0,0,0,0,0,0,0,0,0,0,0,0,0,0,225,0,309,0,0,0,0,0,0,0,0,0,0,0,0,0,0,0,0,0,0,0,0,210,0,0,308,0,0,0,0,0,0,0,0,0,0,0,0,0,0,0,0,
+0,0,0,0,0,0,0,0,210,0,0,0,0,0,225,0,309,318,0,0,0,0,0,0,0,0,0,0,0,0,0,0,0,0,0,0,0,0,208,0,0,0,308,264,201,0,0,0,0,0,0,0,0,0,0,0,0,0,
+0,0,0,0,0,0,0,0,210,0,0,0,0,225,0,309,309,318,0,0,0,0,226,254,0,0,0,0,0,0,0,0,0,0,0,0,0,0,0,0,227,0,0,264,201,0,0,0,0,0,0,0,0,0,0,0,0,0,
+0,0,0,0,0,0,0,0,210,0,0,0,225,0,309,309,0,0,0,0,0,0,0,0,0,0,0,0,0,0,0,0,0,0,0,0,0,0,0,0,0,233,0,264,201,0,0,0,0,0,0,0,0,0,0,0,0,0,
+0,0,0,0,0,0,0,0,208,0,0,225,0,309,309,0,0,0,0,0,0,0,0,0,0,0,0,0,0,0,0,0,0,0,0,0,0,0,0,210,0,233,0,264,201,0,0,0,0,0,0,0,0,0,0,0,0,0,
+0,0,0,0,0,0,0,0,0,208,0,0,309,309,0,0,0,0,0,226,0,0,0,0,0,0,0,0,0,0,0,0,0,0,0,0,0,0,0,210,315,233,0,264,0,0,0,0,0,0,0,0,0,0,0,0,0,0,
+0,0,0,0,0,0,0,0,0,0,210,309,309,0,0,0,0,0,0,0,0,0,0,0,0,0,0,0,0,0,0,0,0,0,210,0,0,0,0,0,0,0,0,0,0,0,0,0,0,0,0,0,0,0,0,0,0,0,
+0,0,0,0,0,0,0,0,0,0,210,309,0,0,0,0,0,0,0,217,0,0,0,0,0,0,0,0,0,0,0,0,0,0,210,0,0,0,0,0,0,0,0,0,0,0,0,0,0,0,0,0,0,0,0,0,0,0,
+0,0,0,0,0,0,0,0,0,0,210,308,0,0,0,0,0,0,0,0,0,0,0,0,0,0,0,0,0,0,0,0,0,0,210,0,0,0,0,0,0,0,0,0,309,0,0,0,0,0,0,0,0,0,0,0,0,0,
+0,0,0,0,0,0,0,0,0,0,210,308,0,0,0,0,0,0,201,0,0,0,0,0,0,0,0,0,0,0,0,0,0,0,210,0,0,0,0,0,0,0,0,0,309,0,308,309,0,315,0,0,0,0,0,0,0,0,
+0,0,0,0,0,0,0,0,0,206,210,308,0,0,0,0,0,0,201,0,0,0,0,0,0,0,0,0,0,0,0,0,0,0,0,0,0,0,0,0,0,0,0,0,309,0,308,309,319,0,0,201,0,0,0,0,0,0,
+0,0,0,0,0,0,0,0,206,210,210,0,0,0,0,0,0,0,201,0,0,0,0,0,0,0,0,0,0,0,0,229,210,0,0,0,0,0,0,0,308,0,0,0,0,322,308,309,319,0,0,201,0,0,0,0,0,0,
+0,0,0,0,0,0,0,206,210,210,0,308,0,0,0,0,0,0,0,0,0,0,0,0,0,0,0,0,0,0,0,0,208,0,0,0,0,0,0,0,308,0,0,0,0,0,0,0,338,0,201,0,0,0,0,0,0,0,
+0,0,0,0,0,0,0,0,210,0,0,0,0,0,0,0,0,0,0,0,0,0,0,0,0,0,0,0,0,0,0,0,0,218,0,0,0,0,0,0,308,0,0,0,0,0,0,0,0,0,201,0,0,0,0,0,0,0,
+0,0,0,0,0,0,0,0,0,0,0,308,0,0,0,0,0,0,309,0,0,0,0,0,0,0,0,0,0,0,0,0,0,0,0,0,0,0,0,0,0,0,0,0,0,0,0,0,0,0,0,0,0,0,0,0,0,0,
+0,0,0,0,0,0,0,0,0,0,0,0,0,0,0,0,0,0,0,0,0,0,0,0,0,0,0,0,0,0,0,0,0,0,0,0,0,0,0,0,0,0,0,0,0,0,0,0,0,0,0,0,0,0,0,0,0,0,
+0,0,0,0,0,0,0,0,0,0,0,335,0,0,0,0,0,0,319,0,0,0,0,0,0,0,0,0,0,0,0,0,0,0,0,0,210,0,318,0,0,0,0,0,0,0,0,319,0,0,0,0,0,0,0,0,0,0,
+0,0,0,0,0,0,0,0,0,0,0,0,0,0,0,0,0,0,319,319,0,0,0,0,0,0,0,0,0,0,0,0,0,0,0,0,210,0,318,0,0,0,0,0,0,0,0,319,319,0,0,0,0,0,0,0,0,0,
+0,0,0,0,0,0,0,0,0,0,0,0,339,0,0,0,0,0,319,244,309,0,0,0,0,0,0,0,0,0,0,0,0,0,0,0,0,0,339,0,0,0,0,0,0,0,0,0,319,0,0,0,0,0,0,0,0,0,
+0,0,0,0,0,0,0,0,0,0,0,0,0,0,0,0,0,0,0,319,244,0,0,0,0,0,0,0,0,0,0,0,0,0,0,244,0,0,0,0,0,0,0,0,0,0,0,319,319,0,0,0,0,0,0,0,0,0,
+0,0,0,0,0,0,0,0,0,0,0,0,0,0,0,0,0,0,0,319,244,0,0,0,0,0,0,0,0,0,0,0,244,0,245,244,0,0,0,308,0,0,0,0,0,0,0,0,319,0,0,0,0,0,0,0,0,0,
+0,0,0,0,0,0,0,0,0,0,0,0,0,0,0,0,0,0,0,0,245,309,0,0,0,0,0,0,0,0,0,244,244,244,245,0,0,0,0,318,0,0,0,0,0,0,0,0,319,0,0,0,0,0,0,0,0,0,
+0,0,0,0,0,0,0,0,0,0,0,0,0,0,0,0,0,0,0,0,0,0,0,0,0,244,244,0,0,0,0,0,0,0,0,0,0,0,0,0,0,0,0,0,0,0,0,0,319,0,0,0,0,0,0,0,0,0,
+0,0,0,0,0,0,0,0,0,0,0,0,0,0,0,0,0,0,0,0,0,0,0,0,0,0,244,0,312,0,0,0,0,0,0,0,0,308,245,308,0,0,0,0,0,0,0,0,319,0,0,0,0,0,0,0,0,0,
+0,0,0,0,0,0,0,0,0,0,0,0,0,0,0,0,0,0,0,0,0,0,0,0,0,0,0,0,0,0,338,320,335,0,0,0,0,245,244,0,0,0,0,0,0,0,0,0,334,0,0,207,0,0,0,0,0,0,
+0,0,0,0,0,0,0,0,0,0,0,0,0,0,0,0,0,0,0,0,0,0,0,244,0,0,0,0,244,244,312,316,313,0,0,244,0,244,0,0,0,0,0,0,0,0,0,0,0,0,0,0,0,0,0,0,0,0,
+0,0,0,0,0,0,0,0,0,0,0,0,0,0,0,0,0,0,0,0,0,0,0,245,0,0,0,309,244,334,322,0,323,320,339,244,244,308,0,0,0,0,0,0,0,0,0,338,0,0,0,0,0,0,0,0,0,0,
+0,0,0,0,0,0,0,0,0,0,0,0,0,0,0,0,218,0,0,0,0,0,0,0,0,0,244,0,0,312,316,317,0,0,331,245,0,0,0,0,0,0,0,0,0,0,0,0,0,0,0,0,0,0,0,0,0,0,
+0,0,0,0,0,0,0,0,0,0,0,0,0,0,0,0,0,0,0,0,0,0,0,0,0,0,0,0,0,0,0,244,332,313,245,0,0,0,0,0,0,0,0,0,0,338,0,0,0,0,0,0,0,0,0,0,0,0,
+0,0,0,0,0,0,0,0,0,0,0,0,0,0,0,0,0,0,0,0,0,0,0,0,0,0,0,0,0,322,245,244,245,0,323,0,0,0,0,0,0,0,0,0,0,0,0,0,0,0,0,0,0,0,0,0,0,0,
+0,0,0,0,0,0,0,0,0,0,0,0,0,0,0,0,0,0,0,0,0,0,210,0,0,0,0,0,0,0,0,0,322,323,0,0,0,334,0,0,0,0,0,0,0,0,0,0,0,0,0,0,0,0,0,0,0,0,
+0,0,0,0,0,0,0,0,0,0,0,0,0,0,0,0,0,0,0,0,0,210,210,0,0,0,0,0,0,0,0,0,0,0,0,0,334,0,0,0,0,0,0,0,0,0,0,0,0,0,0,0,0,0,0,0,0,0,
+0,0,0,0,0,0,0,0,0,0,0,0,0,0,0,0,0,0,0,0,0,210,210,0,0,0,0,0,0,0,0,0,0,0,0,334,0,0,0,0,0,0,0,0,0,0,0,0,0,0,0,0,0,0,0,0,0,0,
+0,0,0,0,0,0,0,0,0,0,0,0,0,0,0,0,0,0,0,0,0,210,308,0,0,0,0,0,0,0,0,0,0,0,0,0,201,0,0,0,0,0,0,0,0,0,0,0,0,0,0,0,0,0,0,0,0,0,
+0,0,0,0,0,0,0,0,0,0,0,0,0,0,0,0,0,0,0,0,0,210,0,0,0,0,0,0,0,0,0,0,0,309,0,0,201,0,0,0,0,0,0,0,0,0,0,0,0,0,0,0,0,0,0,0,0,0,
+0,0,0,0,0,0,0,0,0,0,0,0,0,0,0,0,0,0,0,0,0,210,339,0,0,0,0,0,0,0,0,0,0,0,0,0,201,0,0,0,0,0,0,0,0,0,0,0,0,0,0,0,0,0,0,0,0,0,
+0,0,0,0,0,0,0,0,0,0,0,0,0,0,0,210,0,0,0,0,0,210,0,0,0,0,0,0,0,0,0,0,0,309,0,0,201,0,0,0,0,0,201,0,0,0,0,0,0,0,0,0,0,0,0,0,0,0,
+0,0,0,0,0,0,0,0,0,0,0,0,0,210,0,210,0,0,0,0,0,0,0,0,308,0,0,0,0,0,0,0,0,309,0,0,0,0,0,0,0,0,201,0,201,0,0,0,0,0,0,0,0,0,0,0,0,0,
+0,0,0,0,0,0,0,0,0,0,210,0,0,210,0,0,0,0,0,0,0,0,0,0,0,0,0,0,0,0,0,0,0,0,0,0,0,0,0,0,0,0,0,0,201,0,0,201,0,0,0,0,0,0,0,0,0,0,
+0,0,0,0,0,0,0,0,0,0,210,0,0,0,0,0,0,0,0,0,318,0,0,0,308,0,0,0,0,0,0,0,0,309,0,0,0,0,0,0,0,0,0,0,0,0,0,201,0,0,0,0,0,0,0,0,0,0,
+0,0,0,0,0,0,0,210,0,0,0,0,0,0,0,0,0,0,0,0,0,0,0,0,293,294,293,294,293,294,293,294,293,294,0,0,0,0,0,0,0,0,0,0,0,0,0,0,0,0,0,201,0,0,0,0,0,0,
+0,0,0,0,0,210,0,210,0,0,0,0,0,0,0,0,0,0,0,0,0,0,0,0,303,304,303,304,303,304,303,304,303,304,0,0,0,0,0,0,0,0,0,0,0,0,0,0,0,0,0,201,201,0,0,0,0,0,
+0,0,0,0,210,210,0,0,0,0,0,0,0,0,0,0,0,0,0,0,0,0,0,308,295,296,295,296,295,296,295,296,295,296,309,0,0,0,0,0,0,0,0,0,0,0,0,0,0,0,0,0,201,0,0,219,0,0,
+0,0,210,0,210,0,0,0,0,0,0,0,0,0,0,0,0,338,320,335,0,0,244,308,318,306,305,306,305,306,305,306,305,0,309,245,244,0,0,0,0,245,244,0,0,0,0,0,0,0,0,0,0,0,0,0,230,0,
+0,0,210,0,0,0,0,0,0,0,0,0,0,0,244,0,0,312,316,313,0,0,244,308,0,0,0,0,0,0,0,0,0,0,0,309,244,244,245,244,244,0,244,0,309,0,0,0,0,0,0,0,0,0,0,201,230,0,
+0,0,210,0,0,0,0,0,0,0,244,244,245,244,244,0,334,322,0,323,320,339,0,308,0,0,0,0,0,0,0,0,0,0,309,0,0,0,244,244,309,0,0,0,0,245,244,244,0,0,0,0,0,0,0,201,230,0,
+0,0,210,0,0,0,0,0,0,0,244,245,0,0,245,0,312,316,317,0,0,331,0,0,0,0,0,0,0,0,0,0,0,0,0,309,0,0,244,245,309,0,0,0,0,0,0,244,309,0,0,0,0,0,0,0,230,0,
+0,0,210,0,0,0,0,0,244,0,0,0,0,0,0,0,0,244,244,332,313,0,0,0,0,0,0,0,0,0,0,0,0,0,0,0,322,0,0,0,0,0,0,0,0,0,0,0,0,245,244,0,0,0,0,0,230,0,
+0,0,210,0,0,244,245,0,244,0,0,0,0,0,0,0,322,244,245,245,244,323,0,0,0,0,0,0,0,0,0,0,0,0,0,0,0,0,0,0,0,0,245,244,244,0,0,0,0,244,244,309,244,0,0,0,230,0,
+0,0,210,0,0,244,244,0,245,0,0,0,0,0,0,0,0,0,0,322,323,0,0,0,0,0,0,0,0,0,0,0,0,0,0,0,0,0,0,0,0,0,0,0,244,0,0,0,244,244,309,309,244,0,0,0,230,0,
+0,0,210,0,0,244,245,0,0,0,0,0,0,0,0,0,0,0,0,0,0,0,0,0,0,0,0,0,0,0,0,0,0,0,0,0,0,0,0,0,0,0,0,0,0,0,245,244,0,322,309,309,245,0,0,0,230,0,
+0,0,210,0,0,245,0,0,0,0,0,0,0,0,0,0,0,0,0,0,0,0,0,0,0,0,0,0,0,0,0,0,0,0,0,0,0,0,0,0,0,0,0,0,0,0,0,0,0,0,0,322,0,0,0,0,230,0,
+0,0,210,0,0,293,293,293,293,293,293,293,293,293,293,293,293,293,293,293,293,293,293,293,293,293,293,293,293,293,293,293,293,293,293,293,293,293,293,293,293,293,293,293,293,293,293,294,293,294,293,294,293,0,0,0,230,0,
+0,0,218,0,0,339,0,0,0,0,0,0,0,0,0,0,0,0,0,0,0,0,0,0,0,0,0,0,0,0,0,0,0,0,0,0,0,0,0,0,0,0,0,0,0,0,0,0,0,0,0,0,338,0,0,207,0,0,
+0,0,0,218,0,0,335,0,0,0,0,0,0,0,0,0,0,0,0,0,0,0,0,0,0,0,0,0,0,0,0,0,0,0,0,0,0,0,0,0,0,0,0,0,0,0,0,0,0,0,0,334,0,0,217,0,0,0,
+0,0,0,0,208,0,0,335,0,0,0,0,0,0,0,0,0,0,0,0,0,0,0,0,0,0,0,0,0,0,0,0,0,0,0,0,0,0,0,0,0,0,0,0,0,0,0,0,0,0,334,0,0,217,0,0,0,0
+
+
+
+	],
+
+		],
+
+		},
+
+		images: {
+			tiles: {normal: "assets/tilemap/caves.png"},
+			waterRock1: {normal: "assets/objects/waterRock1.png"},
+			waterRock2: {normal: "assets/objects/waterRock2.png"},
+			waterRock3: {normal: "assets/objects/waterRock3.png"},
+			waterRock4: {normal: "assets/objects/waterRock4.png"},
+			rock1: {normal: "assets/objects/rock1.png"},
+			rock2: {normal: "assets/objects/rock2.png"},
+			rock3: {normal: "assets/objects/rock2Alt.png"},
+			rock4: {normal: "assets/objects/rock3.png"},
+			waterPlant: {normal: "assets/objects/waterPlant.png"},
+			mushroomsBlue: {normal: "assets/objects/mushroomsBlue.png"},
+
+	},
+	things: [
+		{
+			x: [888, 2254],
+			y: [551, 111],
+			image: "rock1",
+			name: "rock1",
+		},
+
+		{
+			x: [2455, 2205, 923, 1319, 2862],
+			y: [314, 93, 516, 802, 945],
+			image: "rock4",
+			name: "rock4",
+		},
+		{
+			x: [474, 440, 924, 899, 1228, 1194, 2454, 2487, 2911, 2948, 1889, 2209, 2281, 2028, 1533, 1153, 1118, 2446, 2379, 2890, 1422, 2141, 2175],
+			y: [3624, 3657, 3410, 3432, 3305, 3331, 3385, 3404, 3649, 3612, 2395, 2228, 2160, 2150, 2055, 1758, 1725, 1399, 1466, 1824, 1617, 1880, 1847],
+			image: "waterRock1",
+			name: "waterRock1",
+		},
+
+
+
+		{
+			x: [2221, 2590, 2704, 2743, 2540, 2577, 2878, 3083, 3083, 2840, 2079, 2240, 1434, 569, 513],
+			y: [3309, 3322, 3392, 3424, 2988, 3014, 1665, 1552, 1600, 1320, 1214, 1136, 1982, 1498, 1557],
+			image: "waterRock2",
+			name: "waterRock2",
+		},
+
+		{
+			x: [2685, 2854, 2154, 1955, 1516, 1684],
+			y: [3603, 3123, 2903, 1898, 1751, 2247],
+			image: "waterRock3",
+			name: "waterRock3",
+		},
+
+		{
+			x: [205, 165, 656, 1361, 3135, 3121, 1811, 1689, 1214, 2110, 2246, 2869, 1312, 1185, 2992, 2418, 1373],
+			y: [3373, 3397, 3093, 3416, 3289, 3699, 2193, 1892, 1543, 1164, 2188, 1804, 2717, 2972, 3285, 3058, 1767],
+			image: "waterRock4",
+			name: "waterRock4",
+		},
+
+		{
+			x: [3003, 3039, 3087, 3086, 3150, 2498, 2526, 2563, 2492, 2526, 2071, 2136, 2682, 2736, 2780, 3241, 3024, 3071, 912, 879, 839, 220, 160, 569, 535, 506, 626, 597, 567, 609, 639, 1140, 1114, 785, 815, 1721, 1615, 1573, 1344, 1381, 2194, 2102, 2059, 633, 633, 467, 1170, 1164, 2346, 2373, 2905, 2063, 2061, 2063, 2140, 2180, 2324, 2324, 2659, 2704, 1488, 1459, 707, 750],
+			y: [3628, 3663, 3709, 3650, 3715, 3457, 3492, 3522, 3497, 3534, 3185, 3250, 3048, 3076, 3092, 3341, 3199, 3223, 2975, 3009, 3027, 3335, 3447, 3116, 3149, 3176, 3504, 3528, 3548, 3556, 3532, 3530, 3505, 3476, 3446, 2260, 2284, 2297, 1949, 1978, 1789, 1869, 1869, 1461, 1416, 1556, 1812, 1754, 2096, 2041, 1841, 1302, 1347, 1377, 1112, 1112, 1525, 1568, 1218, 1242, 1678, 1643, 1071, 1014],
+			image: "waterPlant",
+			name: "waterPlant",
+		},
+
+		{
+			x: [3005, 2648, 626, 1167, 1767],
+			y: [943, 437, 796, 226, 109],
+			image: "mushroomsBlue",
+			name: "mushroomsBlue",
+		},
+
+	],
+
+	npcs: [
+		{
+			x: 1,
+			y: 1,
+			image: "mrsPeacock",
+			name: "???",
+			hostility: "friendly",
+			level: 10,
+			stats: {
+				maxHealth: 100,
+				defence: 1,
+				healthRegen: 0.3,
+			},
+		},
+		],
+		areaTeleports: [
+			{
+				// teleport to logging camp (path - north)
+				x: 1,
+				y: 1,
+				width: 354,
+				height: 10,
+				teleportTo: "caves",
+				destinationX: 4311,
+				destinationY: -280,
+			},
+
+
+		],
+
+	},
 
 
 };
